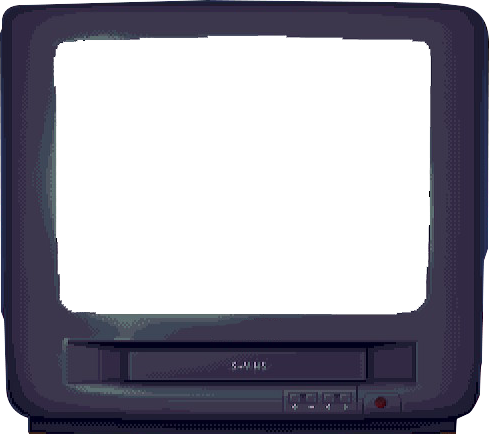
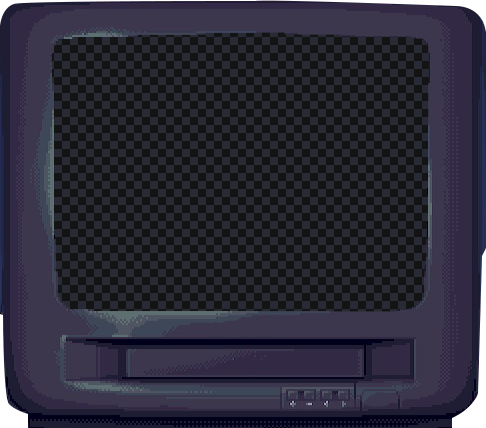
save

diff --git a/css/videoPlayer.css b/css/videoPlayer.css
@@ -8,8 +8,8 @@
 }
 
 #tv {
-  width: 340px;
-  height: 340px;
+  width: 350px;
+  height: 350px;
   /* background-color: pink; */
   display: flex;
   align-items: center;
@@ -19,11 +19,30 @@
   background-image:url(./asset/tvframe.png);
   background-size: cover;
   background-position: center;
+  box-shadow: 15px 0px 0px 2px;
+  color: #1f1d33;
+  z-index: 0;
+}
+
+#tvBackText {
+  width:900px;
+  height:200px;
+  position: relative;
+  top:130px;
+  z-index: 0;
+  font-size: 120px;
+  text-align: center;
+  display: flex;
+  align-items: center;
+  justify-content: center;
+  font-weight: bold;
+  animation: flicker 1s infinite;
+  color: white;
 }
 
 #screen {
-  width: 300px;
-  height: 220px;
+  width: 320px;
+  height: 230px;
   background-color: #3C374D;
   background-image: url(./asset/no-signal.gif);
   background-position: center;
@@ -31,33 +50,49 @@
   position: relative;
   bottom: 11px;
   border-radius: 20px;
-  
+}
+
+#can {
+  width:50px;
+  height:100px;
+  /* background-color: white; */
+  position: relative;
+  top:355px;
+  right:300px;
+  background-image: url(./asset/can.png);
+  background-position: center;
+  background-size:cover;
 }
 
 #screenBottom {
-  width: 250px;
+  width: 260px;
   height: 40px;
-  background-color: #3C374D;
+  /* background-color: #3c374d00; */
   margin-top: 5px;
   display: flex;
   align-items: center;
   justify-content: space-evenly;
-  opacity: 0.6;
+  /* border: 1px solid white; */
 }
 
 #insert {
-  width: 220px;
+  width: 290px;
   height: 38px;
-  background-color: #3C374D;
+  background-color: #3c374d17;
   display: flex;
   align-items: center;
   justify-content: center;
 }
 
 #reset {
-  width: 30px;
-  height: 30px;
-  background-color: #3C374D;
+  width: 15px;
+  height: 15px;
+  background-color: crimson;
+  border-radius: 50%;
+  border: none;
+  position: relative;
+  top:37px;
+  right: 10px;
 }
 
 #table {
@@ -74,4 +109,5 @@
   background-image: url(./asset/table.png);
   background-position: center;
   background-size: cover;
+  border-radius: 20px;
 }

diff --git a/js/eventHandler.js b/js/eventHandler.js
@@ -116,15 +116,15 @@ const tapeImageMap = {
   ],
 
   'tapeBox2': [
-    '../css/asset/tape1.png',
-    '../css/asset/tape2.png',
-    '../css/asset/tape3.png',
+    '../css/asset/tape4.png',
+    '../css/asset/tape5.png',
+    '../css/asset/tape6.png',
   ],
 
   'tapeBox3': [
-    '../css/asset/tape1.png',
-    '../css/asset/tape2.png',
-    '../css/asset/tape3.png',
+    '../css/asset/tape7.png',
+    '../css/asset/tape8.png',
+    '../css/asset/tape9.png',
   ],
 };
 
@@ -150,7 +150,7 @@ const createTapeBox = (parent, boxName, tapeWidth, tapeHeight) => {
     const frame = document.createElement('div');
     frame.id = boxName + '_frame_' + i.toString();
     // frame.style.width = `${tapeWidth}px`;
-    frame.style.width = "200px";
+    frame.style.width = "270px";
     frame.style.height = "30px";
     // frame.style.border = "1px solid black"; // remove later
     frame.style.transformStyle = 'preserve-3d'; // 3d값 그대로 전달
@@ -201,8 +201,8 @@ const setAnimatedBox = (elementId) => {
       setTimeout(() => {
       real.style.transform = `translate3d(${xDiff}px, ${yDiff}px, 0px)`;
       }, 750);
-      real.style.transform = `translate3d(${xDiff}px, ${yDiff}px, 4px)`;
-      
+      real.style.transform = `translate3d(${xDiff}px, ${yDiff}px, 3px)`;
+      real.style.opacity = 0.5;
     });
   });
 }  
@@ -226,8 +226,9 @@ setAnimatedBox("tapeBox3");
 // 리셋 버튼 처리
 resetBtn.addEventListener("click", () => {
   target.style.transform = "translateZ(6px)"; // z축 잠깐 띄움
+  target.style.opacity = 1;// 1초 뒤 원래대로 돌려놓음
   setTimeout(() => {
-    target.style.transform = "translate3d(0,0,0)"; // 1초 뒤 원래대로 돌려놓음
+    target.style.transform = "translate3d(0,0,0)"; 
     target = null;
   }, 650);
 });
